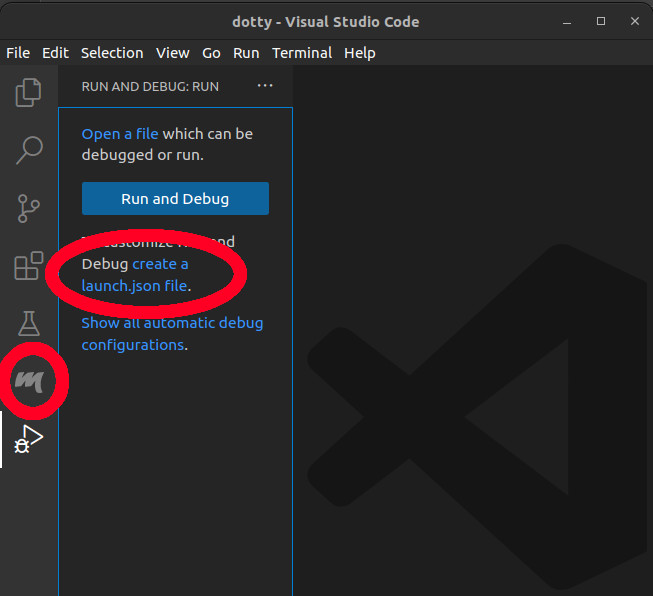
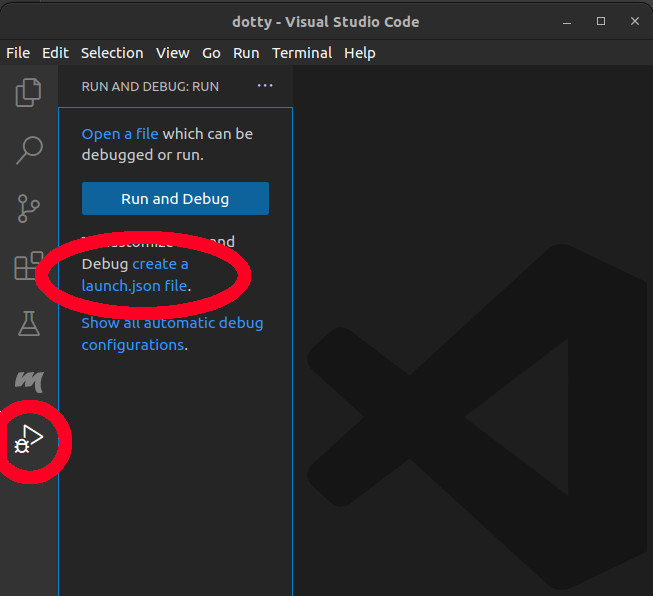
Fix images in debugging compiler guide (#2763)
* Fix images in debbuging compiler guide

* Use sbt export instead of sbt show

diff --git a/_overviews/scala3-contribution/procedures-debugging.md b/_overviews/scala3-contribution/procedures-debugging.md
@@ -56,23 +56,22 @@ First You can give a `name` to your configuration, for instance `Debug Scala 3 C
 
 The two most important parameters, to debug the compiler, are `mainClass` and `args`.
 The `mainClass` of the compiler is `dotty.tools.dotc.Main`.
-In the `args` you need to specify the compiler arguments, which must contain at least a `.scala` file to compile and a `-classpath` option.
+In the `args` you need to specify the compiler arguments, which must contain at least a Scala file to compile and a `-classpath` option.
 
 To start with, we can compile the `../tests/pos/HelloWorld.scala` file.
 In the classpath, we always need at least the `scala-library_2.13` and the bootstrapped `scala3-library_3`.
-To locate them on your filesystem you can run the `show scala3-library-bootstrapped/fullClasspath` command in sbt.
+To locate them on your filesystem you can run the `export scala3-library-bootstrapped/fullClasspath` command in sbt.
 
 ```
 $ sbt
-> show scala3-library-bootstrapped/fullClasspath
-[info] * Attributed(/home/user/lampepfl/dotty/out/bootstrap/scala3-library-bootstrapped/scala-3.3.1-RC1-bin-SNAPSHOT-nonbootstrapped/classes)
-[info] * Attributed(/home/user/.cache/coursier/v1/https/repo1.maven.org/maven2/org/scala-lang/scala-library/2.13.10/scala-library-2.13.10.jar)
+> export scala3-library-bootstrapped/fullClasspath
+/home/user/lampepfl/dotty/out/bootstrap/scala3-library-bootstrapped/scala-3.3.1-RC1-bin-SNAPSHOT-nonbootstrapped/classes:/home/user/.cache/coursier/v1/https/repo1.maven.org/maven2/org/scala-lang/scala-library/2.13.10/scala-library-2.13.10.jar
 [success] Total time: 1 s, completed Mar 10, 2023, 4:37:43 PM
 ```
 
 Note that it is important to use the bootstrapped version of the `scala3-library` to get the correct TASTy version.
 
-Additionally you can add the `["-color", "never"]` arguments to prevent the compiler from printing ANSI codes as strings in the debug console. 
+Additionally you can add the `-color` and `never` arguments to prevent the compiler from printing ANSI codes as strings in the debug console. 
 
 Here is the final configuration:
 ```json
@@ -84,7 +83,7 @@ Here is the final configuration:
   "args": [
     "../tests/pos/HelloWorld.scala",
     "-classpath",
-    // to replace with your own paths
+    // To replace with your own paths
     "/home/user/lampepfl/dotty/out/bootstrap/scala3-library-bootstrapped/scala-3.3.1-RC1-bin-SNAPSHOT-nonbootstrapped/classes:/home/user/.cache/coursier/v1/https/repo1.maven.org/maven2/org/scala-lang/scala-library/2.13.10/scala-library-2.13.10.jar",
     "-color",
     "never"
